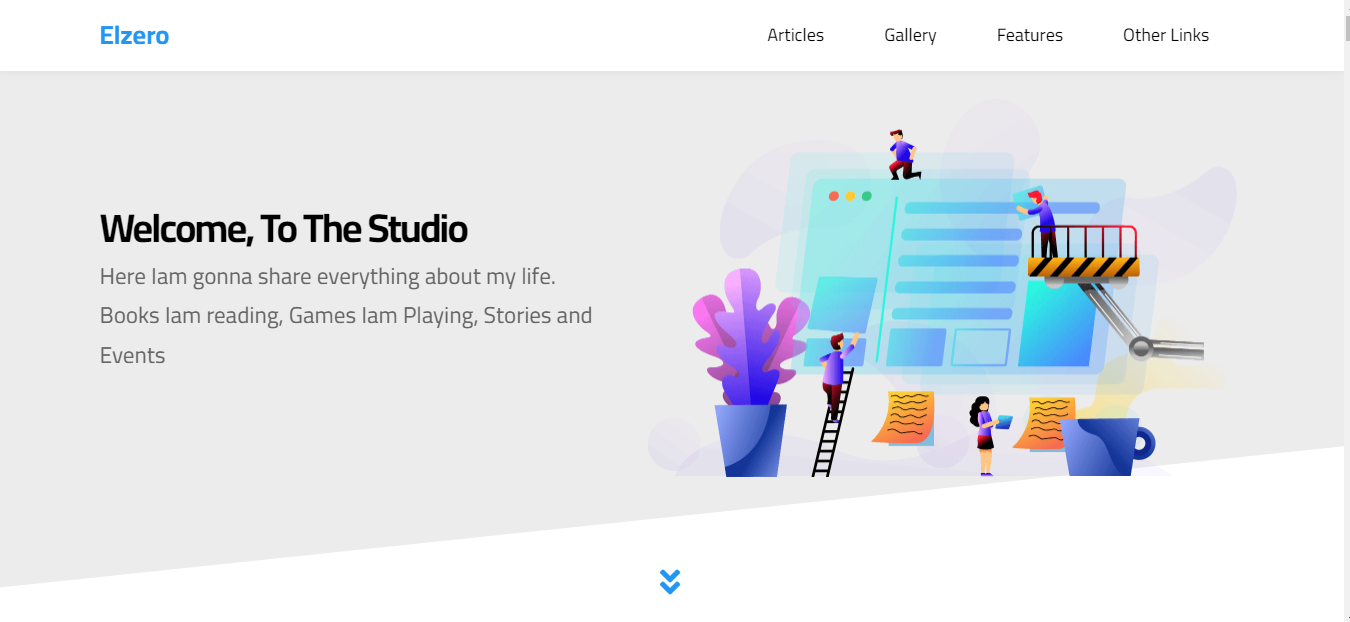
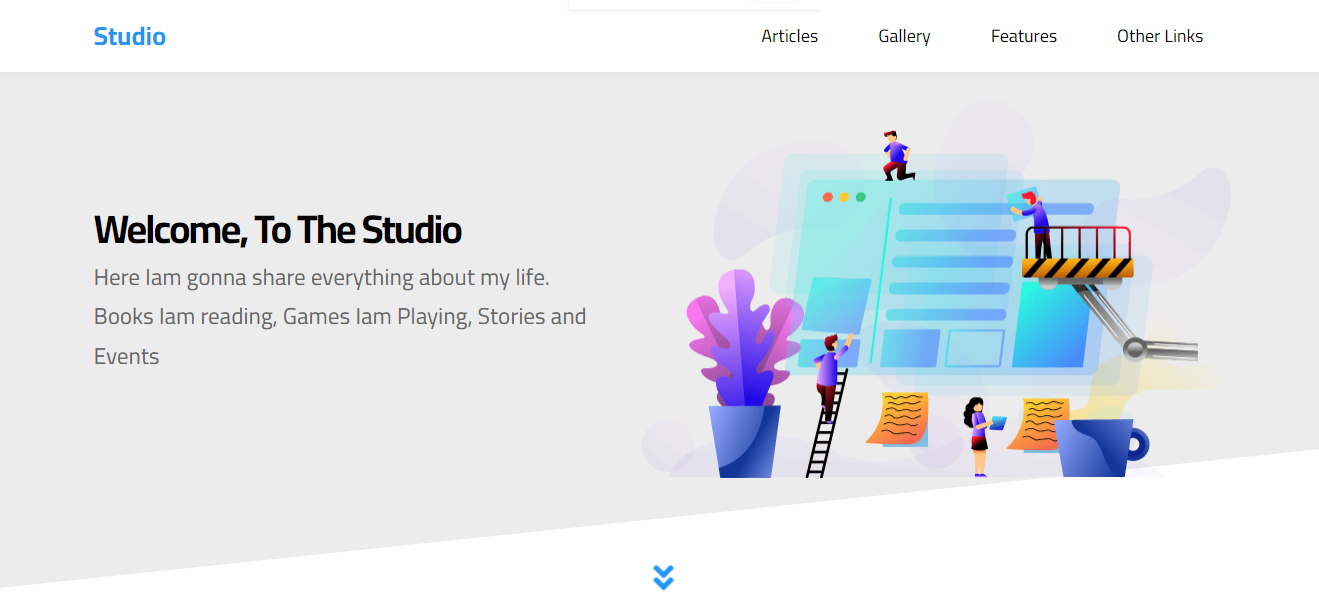
updare README

diff --git a/index.html b/index.html
@@ -20,7 +20,7 @@
     <!-- Start Header -->
     <div class="header" id="header">
         <div class="container">
-            <a href="#" class="logo">Elzero</a>
+            <a href="#" class="logo">Studio</a>
             <ul class="main-nav">
                 <li><a href="#articles">Articles</a></li>
                 <li><a href="#gallery">Gallery</a></li>

diff --git a/README.md b/README.md
@@ -12,5 +12,8 @@
 ![desktop](./public/team.PNG "desktop") &nbsp;
 ![desktop](./public/slills.PNG "desktop") &nbsp;
 ![desktop](./public/pricing.PNG "desktop") &nbsp;
+![desktop](./public/gallery.PNG "desktop") &nbsp;
+![desktop](./public/events.PNG "desktop") &nbsp;
+![desktop](./public/service.PNG "desktop") &nbsp;
 ![desktop](./public/videos.PNG "desktop") &nbsp;
 ![desktop](./public/footer.PNG "desktop") &nbsp;
